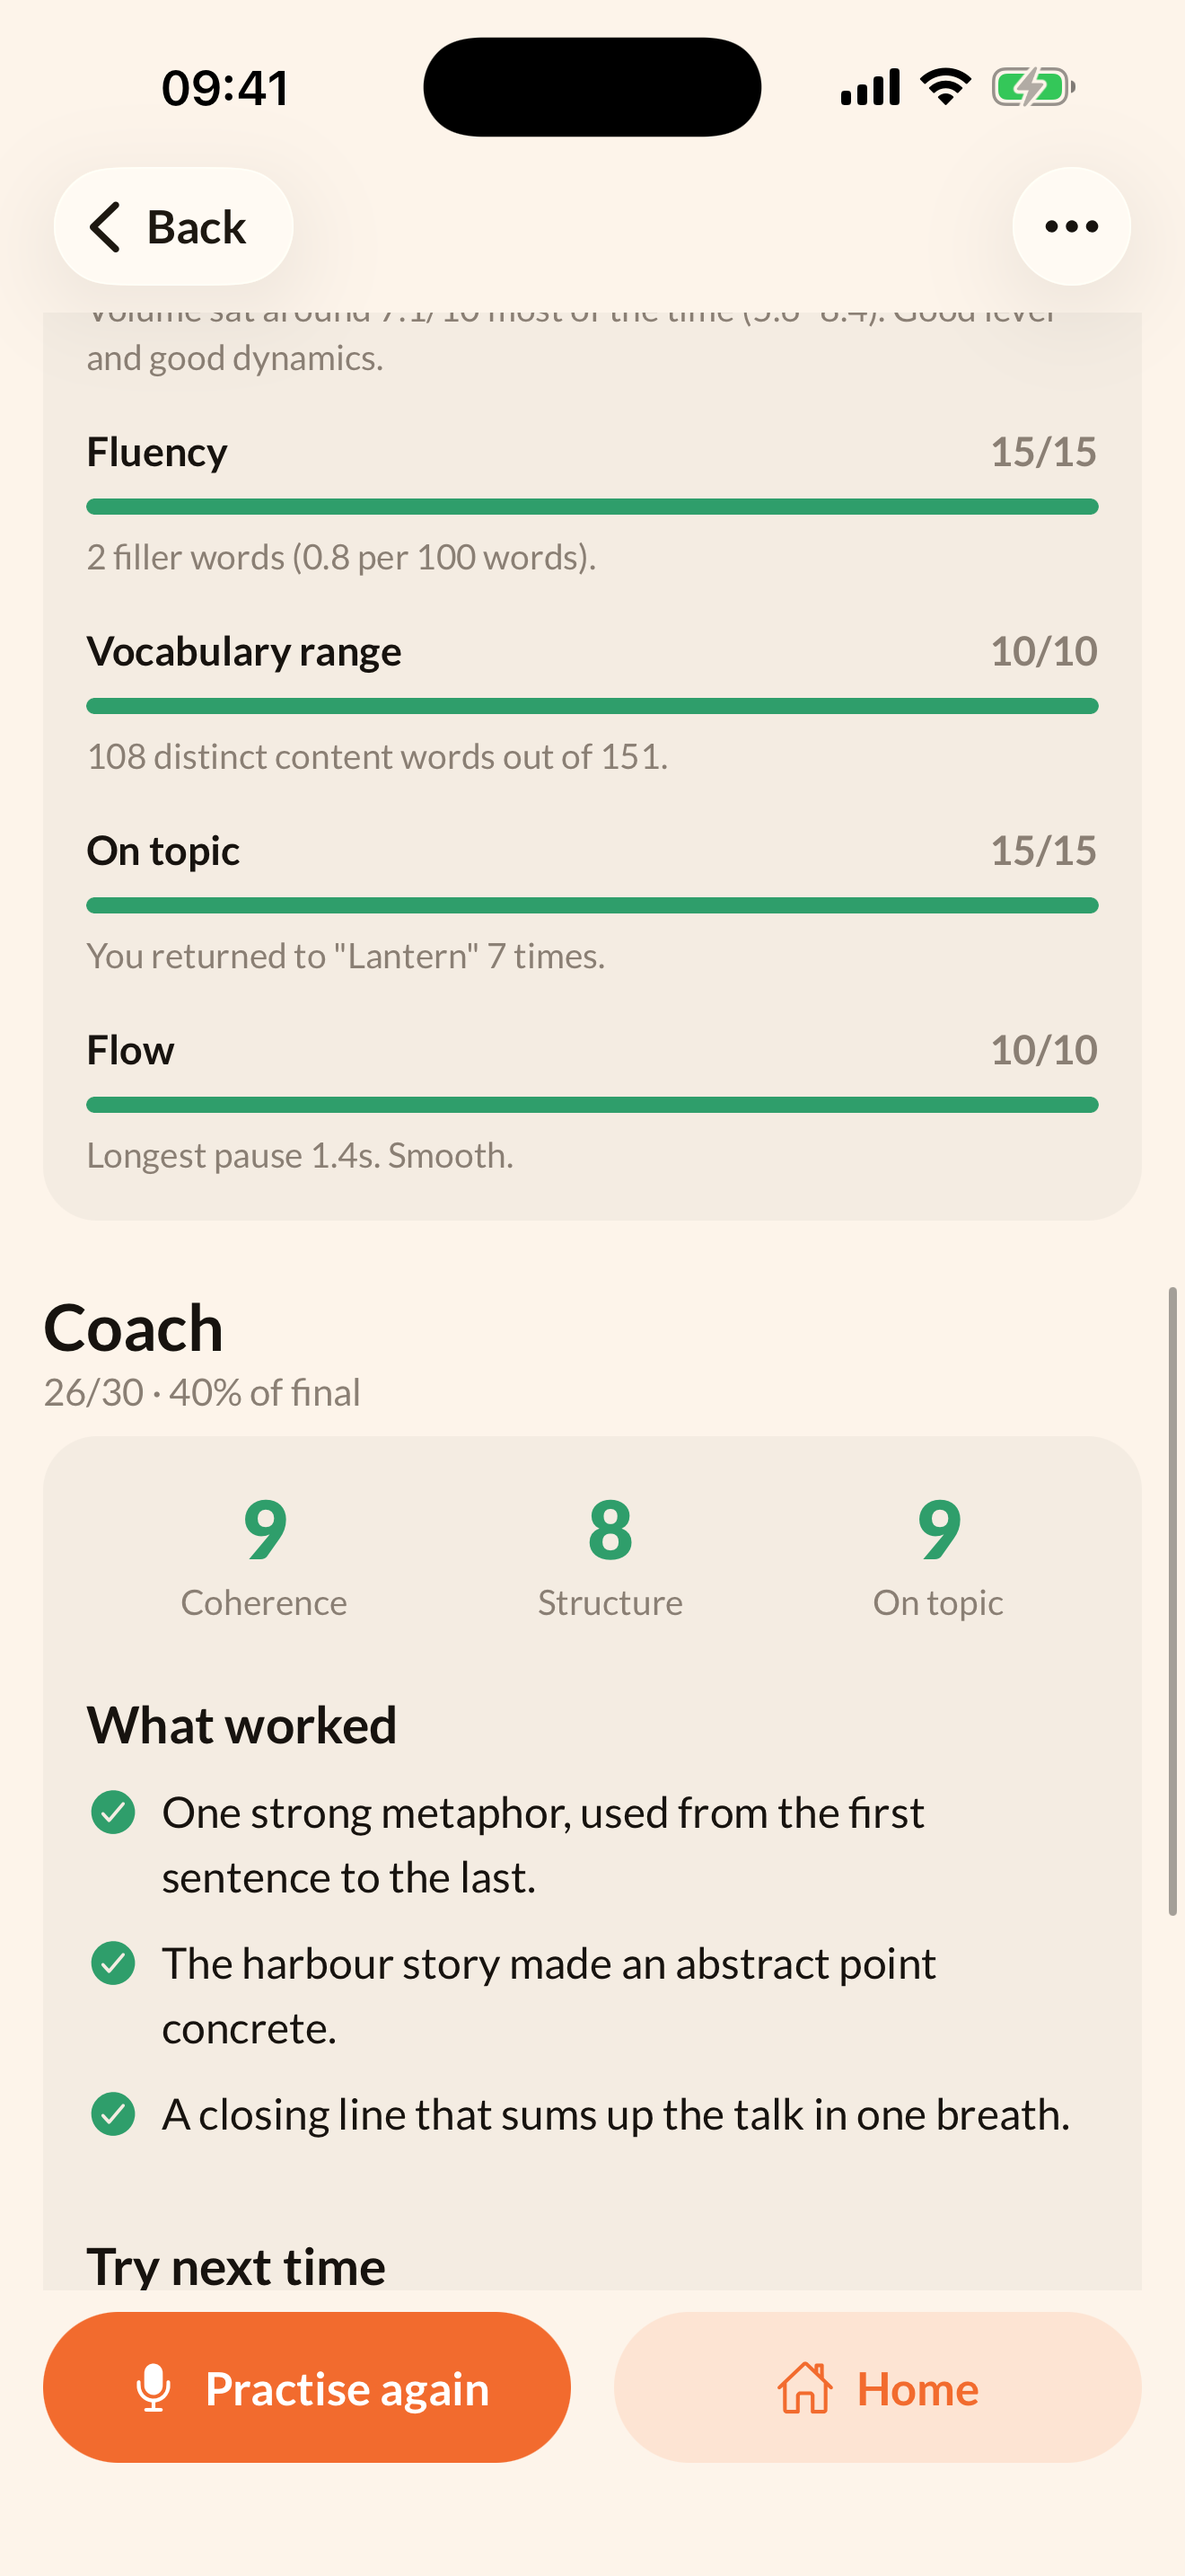
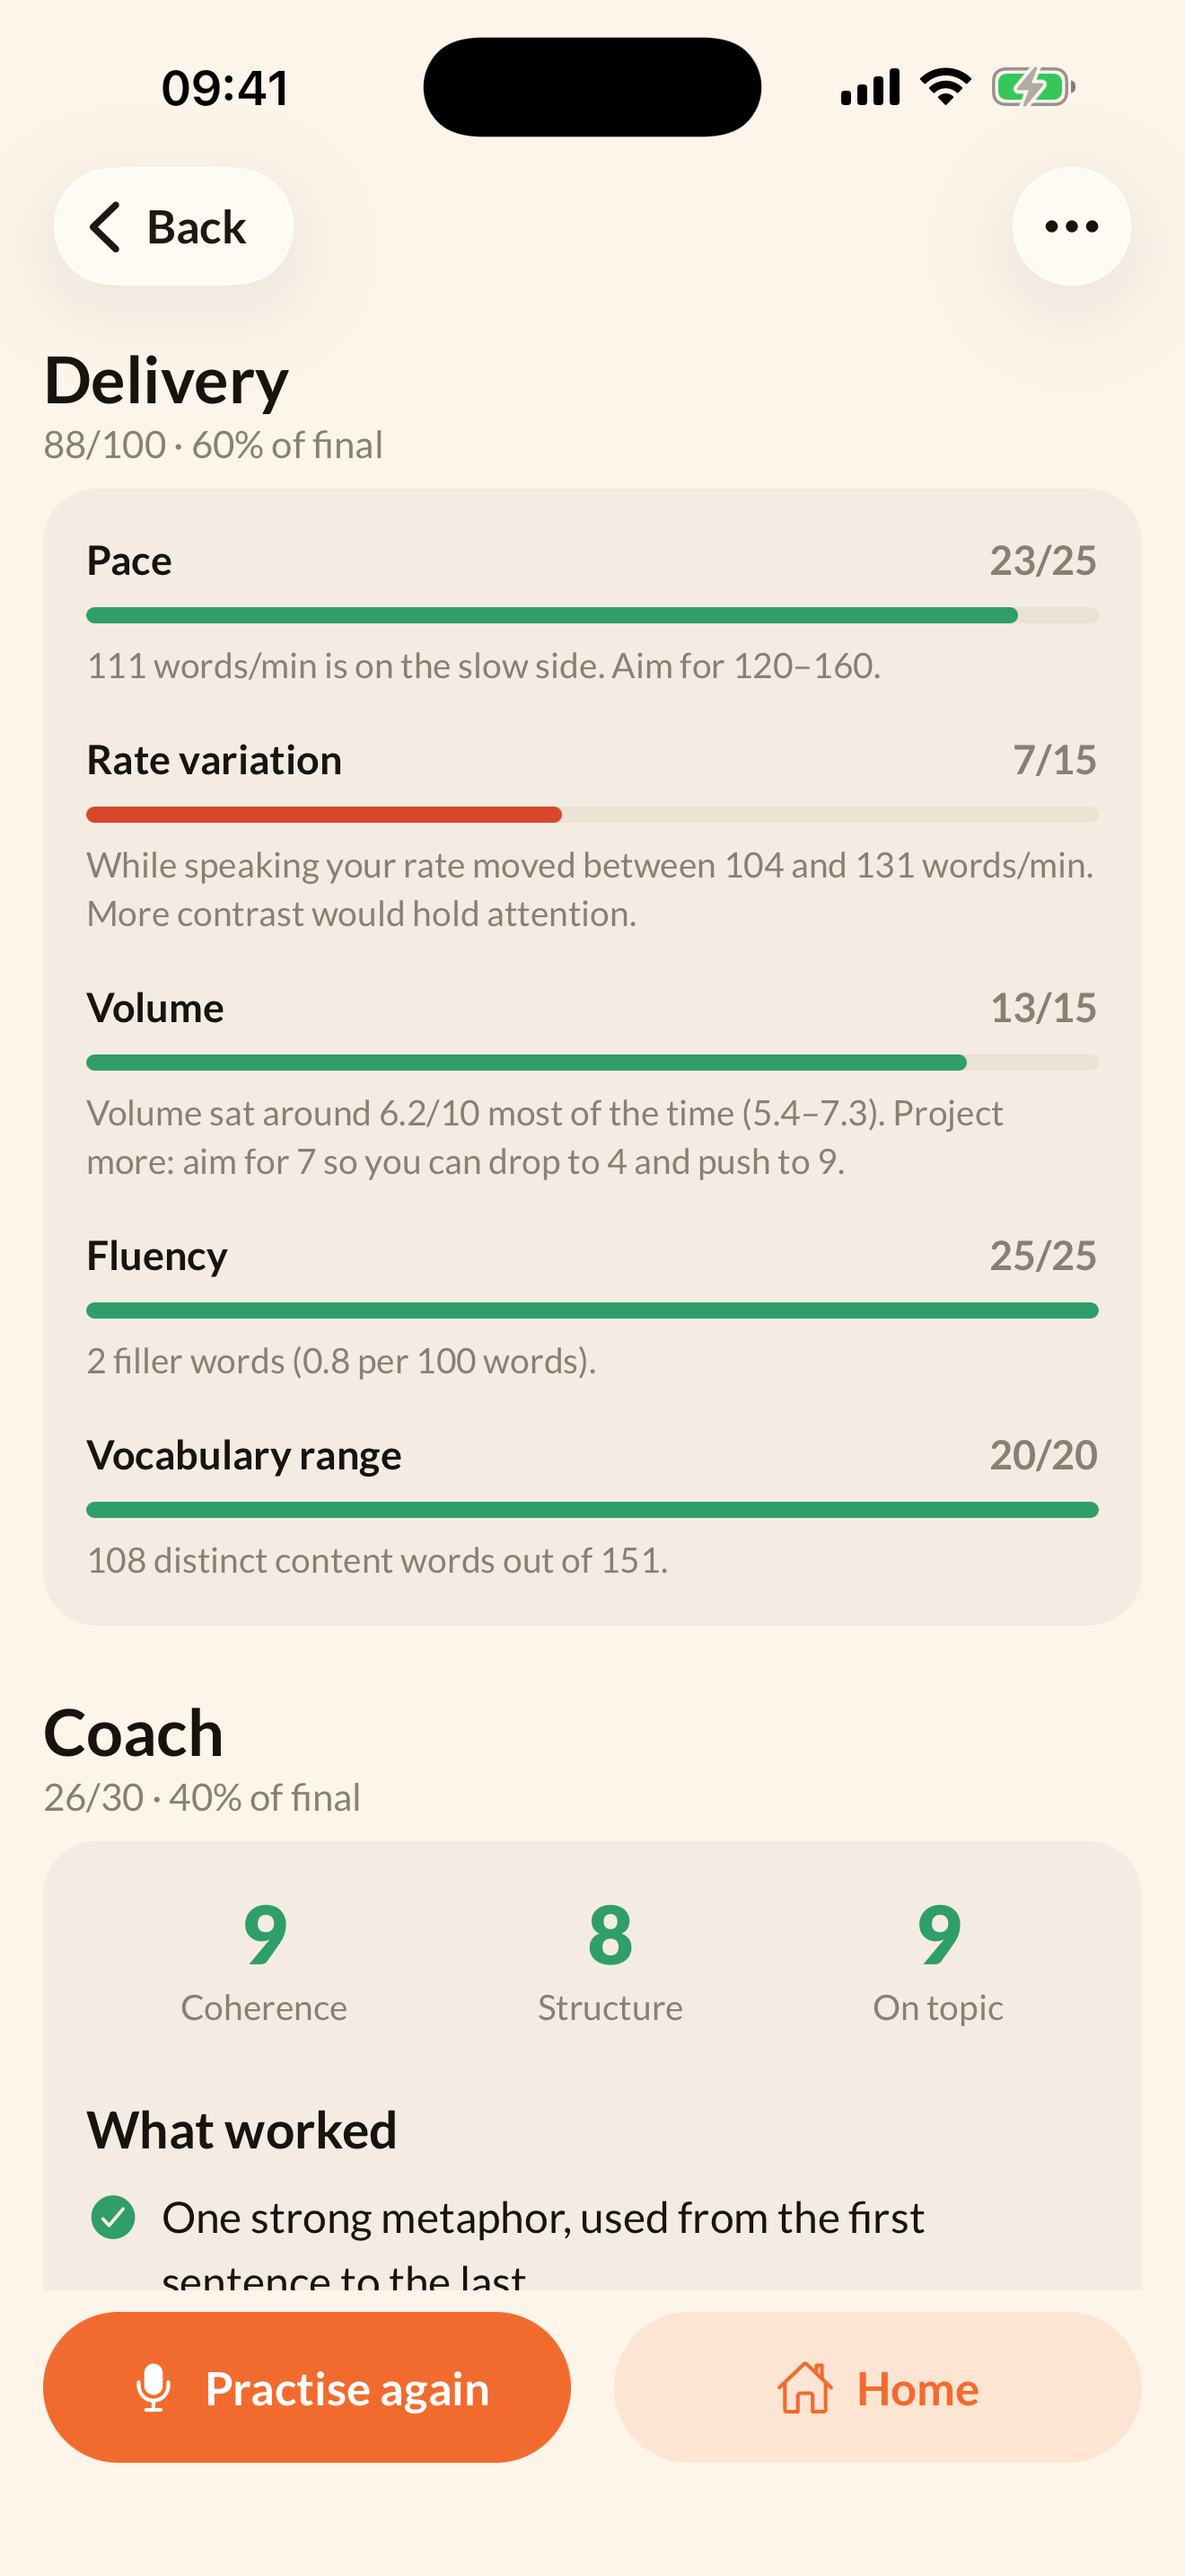
Retake the result and coaching screenshots for the five-part rubric
The old 4-result and 5-coaching screenshots still showed the On topic and
Flow delivery rows and the previous pronunciation card text. Retaken on the
iPhone 17 Pro Max simulator (1320 x 2868) from a seeded talk.

diff --git a/APP_STORE_LISTING.md b/APP_STORE_LISTING.md
@@ -93,7 +93,8 @@ public speaking,speech,impromptu,fluency,filler words,presentation,interview,coa
 6.9-inch iPhone, 1320 × 2868, in `store-assets/appstore/`. Upload them in
 file-name order: `1-today`, `2-word`, `3-talking`, `4-result`, `5-coaching`,
 `6-talks`. They were taken in the simulator with sample talks scored by the
-app's own rubric. `store-assets/paywall-2.png` is the screenshot for the
+app's own rubric; `4-result` and `5-coaching` were retaken on 2026-11-15
+after the rubric lost its length, on-topic and flow rows. `store-assets/paywall-2.png` is the screenshot for the
 subscription's Review Information, not for the listing.
 
 ## Age rating questionnaire
